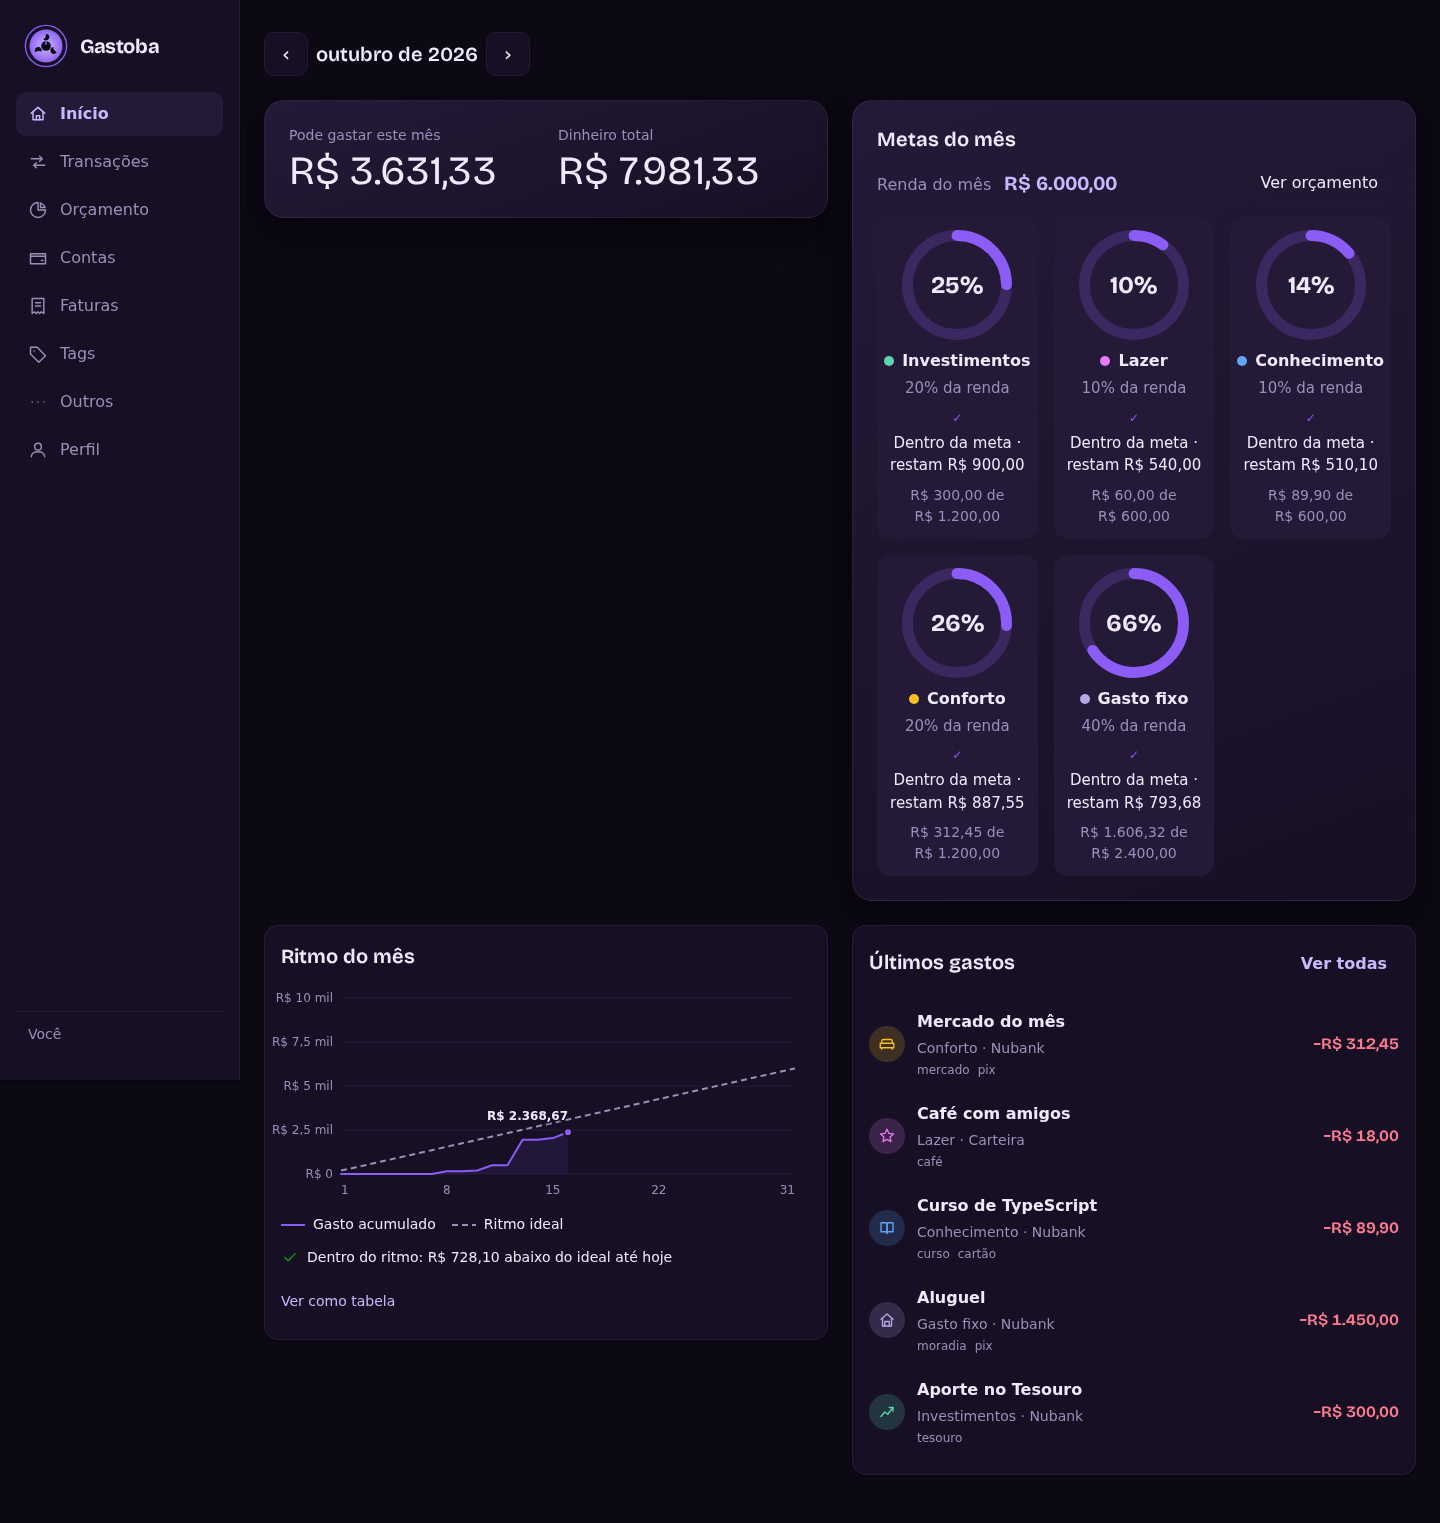
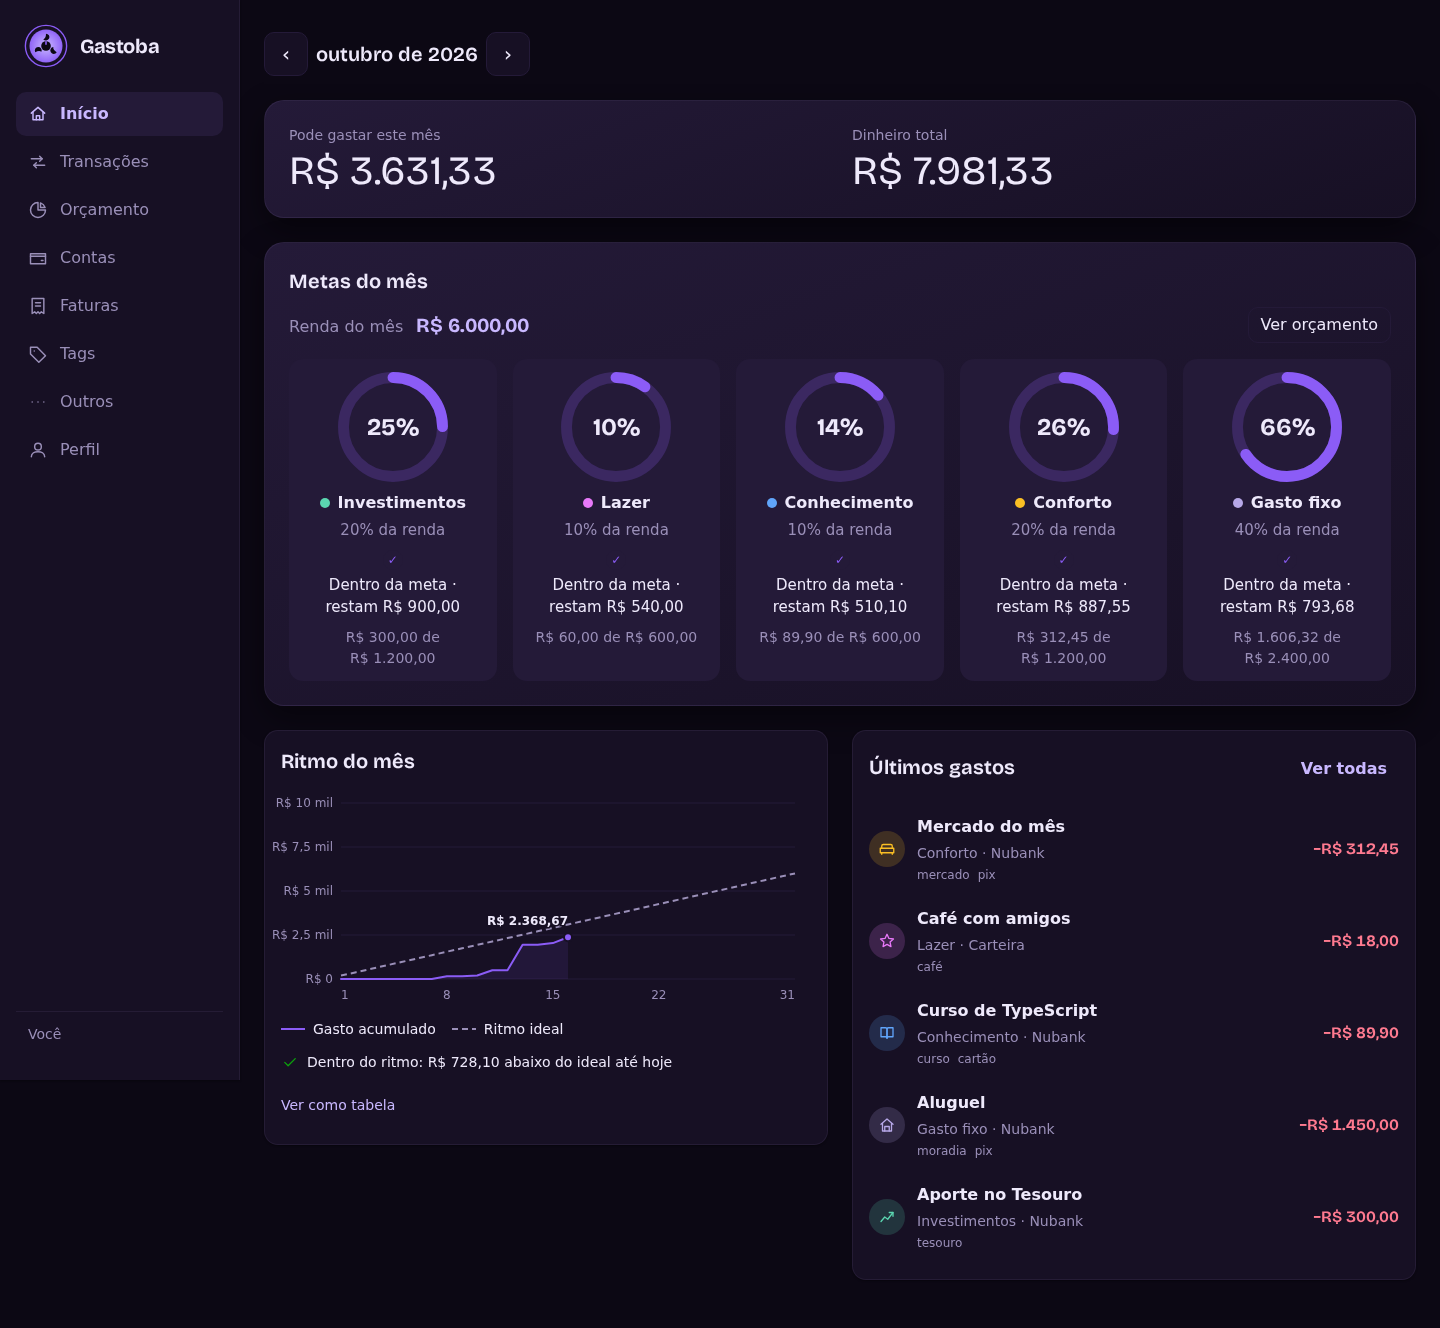
fix(frontend): alinha resumo e metas da tela inicial

diff --git a/frontend/src/paginas/Inicio.module.css b/frontend/src/paginas/Inicio.module.css
@@ -1,6 +1,5 @@
-/* Início, na ordem do DOM: o número principal, as metas do mês (os anéis, em destaque), o ritmo,
-   os últimos gastos e o aviso do mês. No computador são duas colunas (a ordem de leitura continua
-   a do DOM); no celular, uma só. */
+/* Resumo e metas usam a largura disponível; ritmo e últimos gastos dividem
+   a linha seguinte no computador. No celular, a ordem do DOM continua em uma coluna. */
 
 .conteudo {
   display: grid;
@@ -11,6 +10,11 @@
 
 .conteudo > * {
   min-width: 0;
+}
+
+.conteudo > :first-child,
+.metas {
+  grid-column: 1 / -1;
 }
 
 .metas {

diff --git a/frontend/src/componentes/Metas/Metas.module.css b/frontend/src/componentes/Metas/Metas.module.css
@@ -199,7 +199,7 @@
 
 .lista {
   display: grid;
-  grid-template-columns: repeat(auto-fill, minmax(min(100%, 8rem), 1fr));
+  grid-template-columns: repeat(auto-fit, minmax(min(100%, 8rem), 1fr));
   gap: var(--espaco-4);
 }
 
@@ -207,6 +207,10 @@
 @media (max-width: 30rem) {
   .lista {
     grid-template-columns: repeat(2, minmax(0, 1fr));
+  }
+
+  .lista > :last-child:nth-child(odd) {
+    grid-column: 1 / -1;
   }
 }
 

diff --git a/plans/2026-10-16_layout-inicio.md b/plans/2026-10-16_layout-inicio.md
@@ -1,0 +1,9 @@
+# Alinhamento da tela Início
+
+Problema: a grade com duas colunas põe o resumo curto e cinco metas altas na mesma linha, deixando grande espaço vazio antes do gráfico.
+
+Escopo: somente CSS da cópia pública e imagem do README. O resumo e as metas passam a ocupar a largura disponível, seguidos por gráfico e últimos gastos em duas colunas no desktop. Os cinco medidores repartem a linha sem colunas vazias. Em telas estreitas mantém-se a ordem de leitura e não há rolagem horizontal. Nenhum dado, lógica, endpoint ou deploy muda.
+
+Aceite e verificação: conferir geometria real no navegador em 1440px e 375px, sem sobreposição ou overflow; cinco metas alinhadas no desktop; resumo seguido por metas sem espaço vazio causado pela altura da coluna vizinha. Executar testes existentes de Início/Metas, tipos e build. Capturar novamente a interface real com dados fictícios, sem CSS injetado. Não criar teste unitário que apenas replique regras CSS.
+
+Revisão do plano: alteração mínima de apresentação, preserva arquitetura, dinheiro e leitura acessível. Resultados: 71 testes existentes de Início/Metas passaram; tipos e build aprovados. Conferência real no Chromium em 1440, 375 e 320px sem overflow horizontal. Em desktop os cinco cartões têm y=359px e largura ~207,6px, todos na mesma linha. Em celular, a última meta sem par ocupa a largura da grade. Captura desktop substituída com dados fictícios; nenhuma regra CSS foi injetada para a imagem.

diff --git a/README.md b/README.md
@@ -6,7 +6,7 @@ Controle de gastos pessoais com uma interface em português: contas, gastos, gan
 
 ![Painel do Gastoba com dados fictícios](Docs/imagens/painel.png)
 
-*A captura foi feita na simulação local. Todas as contas, transações e valores são fictícios.*
+*Tela Início, capturada na interface real em simulação local. Todas as contas, transações e valores são fictícios.*
 
 ## Recursos
 
